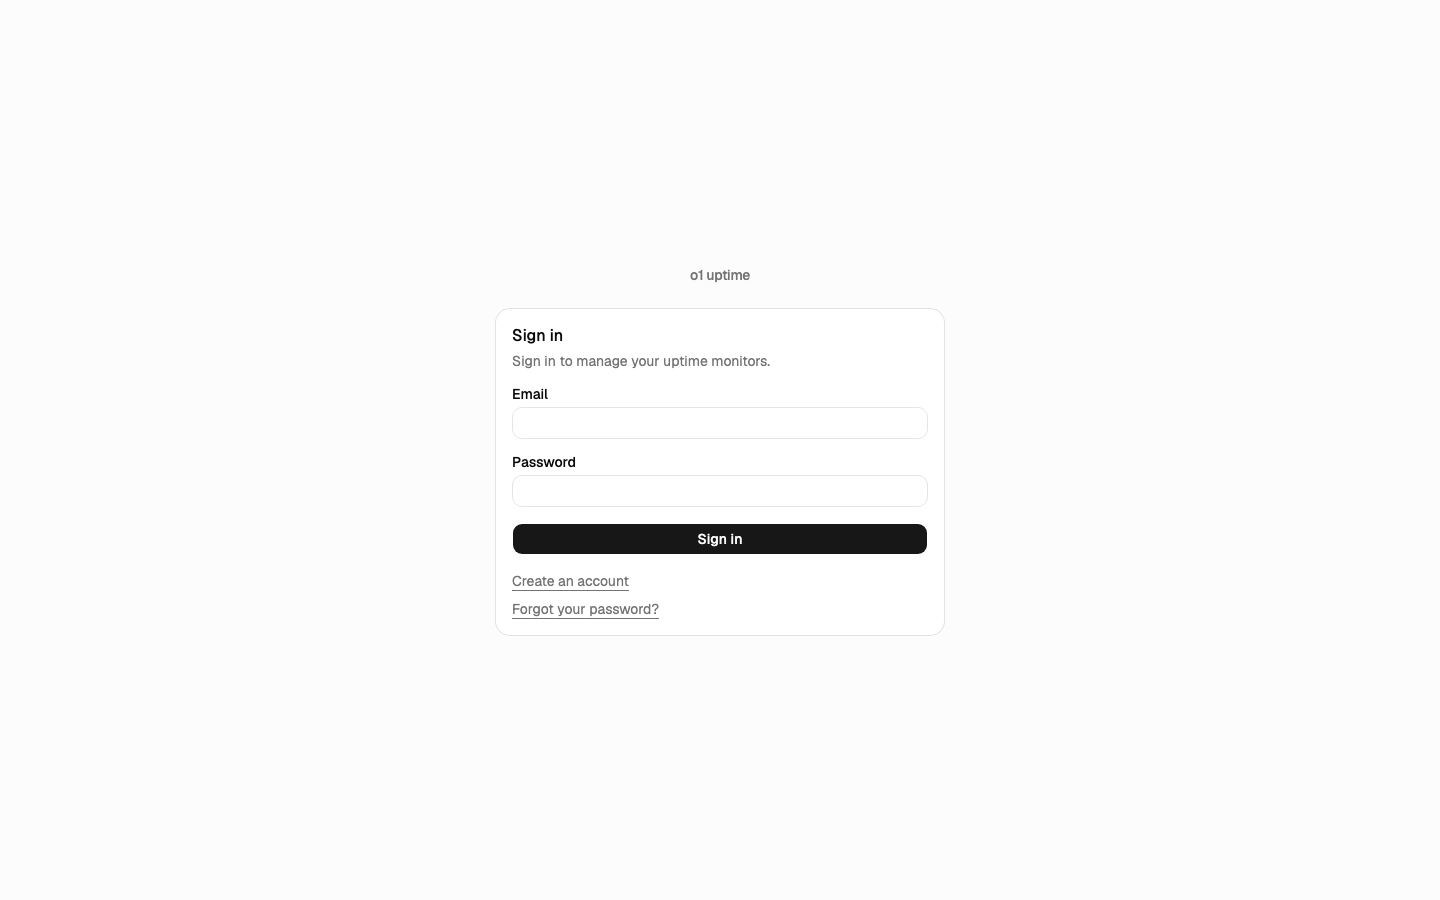
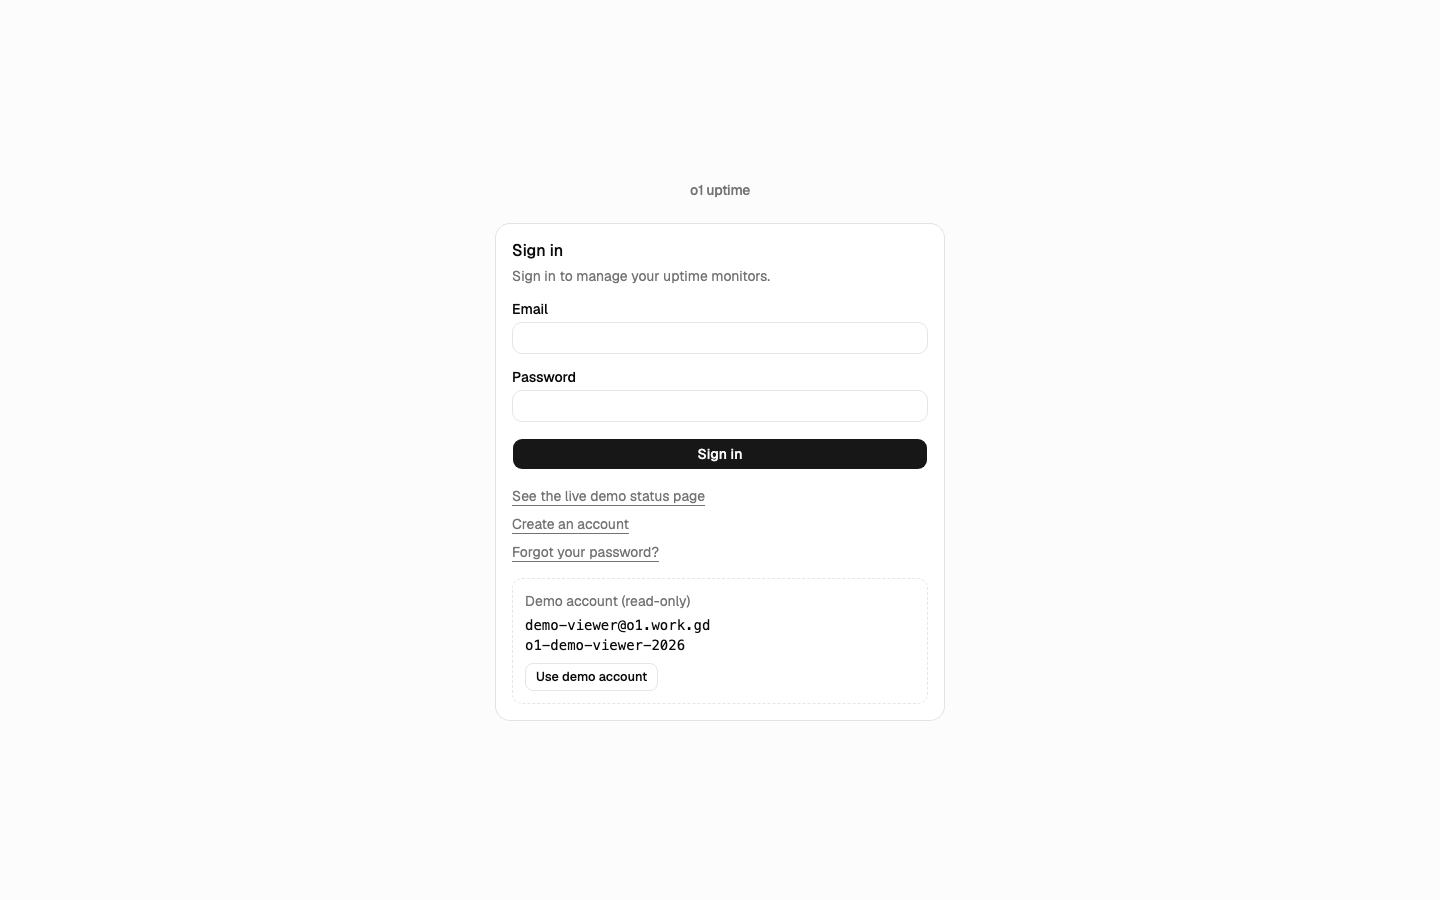
feat: show the demo account on the sign-in screen

Changed region(s): [[0.3438, 0.3422, 0.6562, 0.7778], [0.3438, 0.2489, 0.5312, 0.3111], [0.4688, 0.1867, 0.5312, 0.2178]]

diff --git a/web/src/features/auth/LoginScreen.tsx b/web/src/features/auth/LoginScreen.tsx
@@ -28,6 +28,11 @@ export interface LoginScreenProps {
 
 type LoginStep = 'password' | 'totp' | 'recovery';
 
+// Public read-only account seeded by the demo command. The password is
+// intentionally visible; `seed` resets it and clears any TOTP enrolment.
+const DEMO_EMAIL = 'demo-viewer@o1.work.gd';
+const DEMO_PASSWORD = 'o1-demo-viewer-2026';
+
 function unexpectedProblem(): ApiProblem {
 	return {
 		type: 'about:blank',
@@ -66,6 +71,11 @@ export function LoginScreen({ redirectTo }: LoginScreenProps) {
 		clearWorkspaceSuspended();
 		await queryClient.invalidateQueries({ queryKey: queryKeys.me });
 		await navigate({ to: safeRedirect(redirectTo) });
+	}
+
+	function fillDemoAccount() {
+		form.setValue('email', DEMO_EMAIL, { shouldValidate: false });
+		form.setValue('password', DEMO_PASSWORD, { shouldValidate: false });
 	}
 
 	const onSubmit = form.handleSubmit(async (values) => {
@@ -255,6 +265,21 @@ export function LoginScreen({ redirectTo }: LoginScreenProps) {
 						>
 							Forgot your password?
 						</Link>
+					</div>
+
+					<div className="rounded-lg border border-dashed p-3 text-sm">
+						<p className="text-muted-foreground">Demo account (read-only)</p>
+						<p className="mt-1 font-mono break-all">{DEMO_EMAIL}</p>
+						<p className="font-mono break-all">{DEMO_PASSWORD}</p>
+						<Button
+							type="button"
+							variant="outline"
+							size="sm"
+							className="mt-2"
+							onClick={fillDemoAccount}
+						>
+							Use demo account
+						</Button>
 					</div>
 				</form>
 			) : (

diff --git a/web/src/features/auth/LoginScreen.test.tsx b/web/src/features/auth/LoginScreen.test.tsx
@@ -87,6 +87,22 @@ describe('LoginScreen', () => {
 		expect(link).toHaveAttribute('href', '/status/demo');
 	});
 
+	test('offers the demo account and fills it in', async () => {
+		const user = userEvent.setup();
+		renderWithProviders(<LoginScreen />);
+
+		expect(screen.getByText('demo-viewer@o1.work.gd')).toBeInTheDocument();
+
+		await user.click(screen.getByRole('button', { name: /use demo account/i }));
+
+		expect(screen.getByLabelText('Email')).toHaveValue(
+			'demo-viewer@o1.work.gd',
+		);
+		expect(screen.getByLabelText('Password')).toHaveValue(
+			'o1-demo-viewer-2026',
+		);
+	});
+
 	test('posts credentials and navigates to the redirect target', async () => {
 		const bodies: unknown[] = [];
 		server.use(
